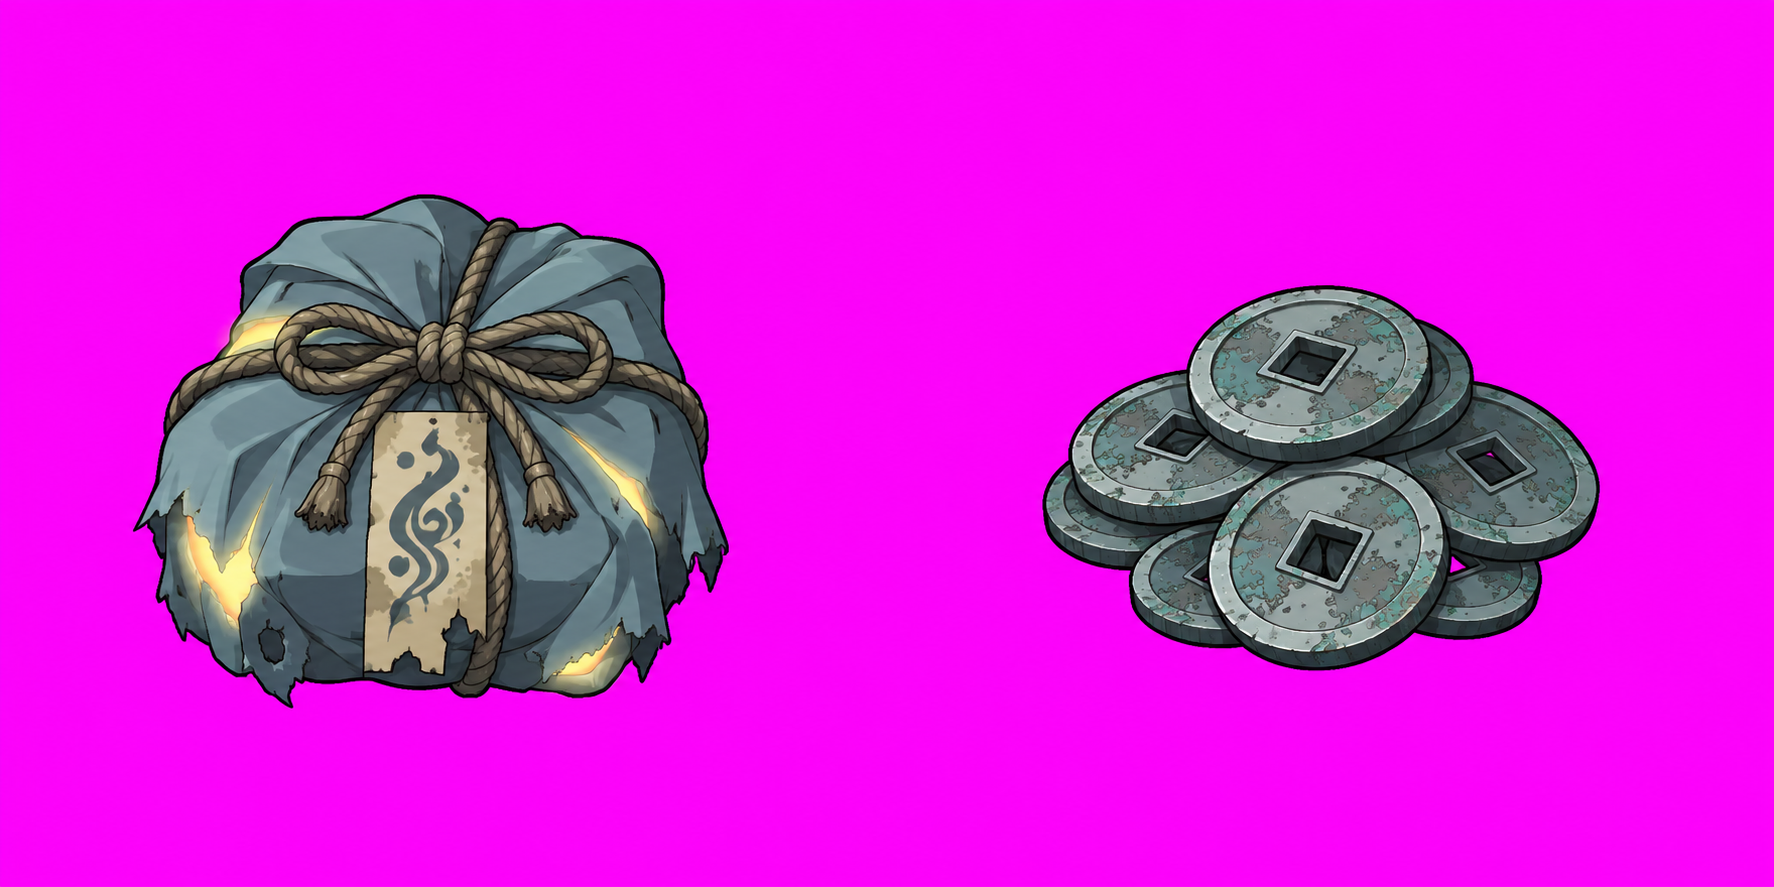
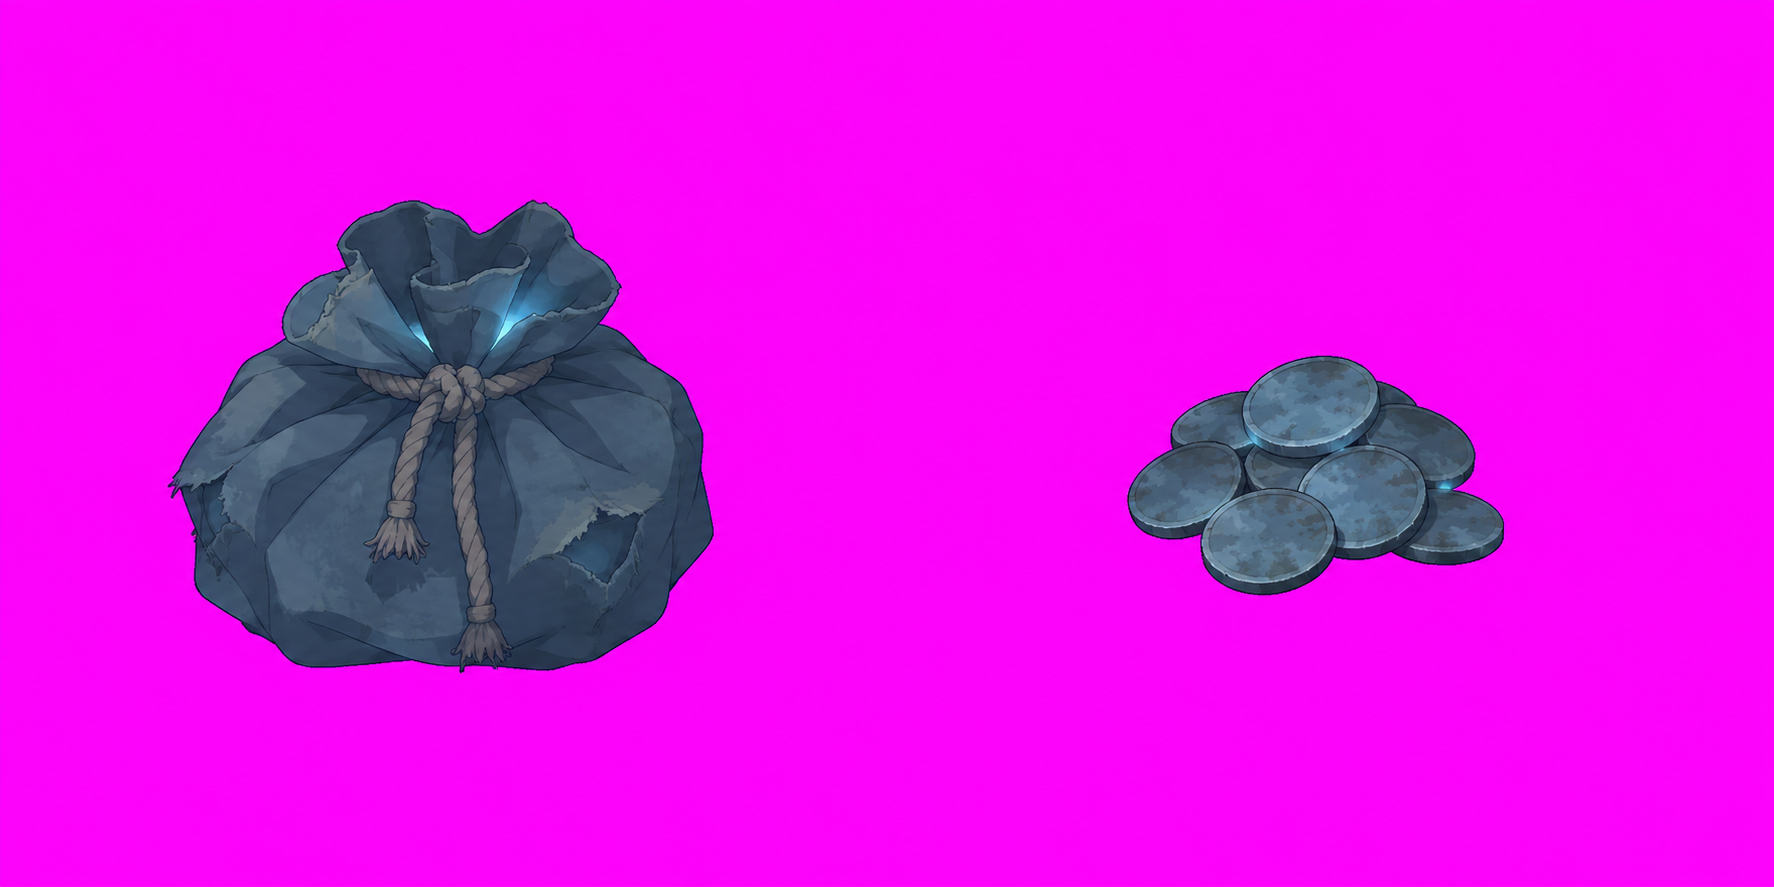
맵 오브젝트를 바닥에 맞춰 전부 다시 제작, 특정 나라의 요소 제외
- 엄폐 오브젝트 21종, 상호작용 오브젝트 9종, 벽 장식 9종, 바닥 장식 9종을 모두 다시 생성
- 오브젝트 시트를 만들 때 바닥 질감을 기준 그림으로 함께 넘겨 그림체와 색을 바닥에 맞춘다
  (채도 낮은 청회색, 바닥보다 조금만 밝게, 밝은 색은 불빛에만)
- 자르는 단계에서 오브젝트의 색을 바닥 색조 쪽으로 조금 더 모은다 (settings.csv 의 scenery.grade, gradeSat)
- 확인용 그림(art/scenery/preview.png)을 실제 바닥 위에 늘어놓아 어울리는지 볼 수 있게 했다
- 글로벌 서비스이므로 한 나라에 고유한 물건을 뺐다: 장독 → 나무통, 포장마차 → 가판대, 평상 → 벤치,
  쌀자루 → 마대, 석상 → 소화전, 부적 벽보 → 찢어진 포스터, 보따리 → 더플백. 로비 배경도 다시 만들었다
- 기획서 v0.15: 0절(글로벌 서비스), 11.1절(맵 그림)

Changed region(s): [[0.062, 0.2131, 0.434, 0.7914], [0.5891, 0.3044, 0.8991, 0.761]]

diff --git a/tools/art/lib/pixels.ts b/tools/art/lib/pixels.ts
@@ -622,3 +622,47 @@ export function padBox(box: Box, pad: number, w: number, h: number): Box {
   const y = Math.max(0, box.y - pad);
   return { x, y, w: Math.min(w, box.x + box.w + pad) - x, h: Math.min(h, box.y + box.h + pad) - y };
 }
+
+// ---- 색 맞추기 ---------------------------------------------------------------
+
+/** 불투명한 픽셀의 평균색 */
+export function meanColor(img: Img, threshold = 128): Rgb {
+  const d = img.data;
+  let r = 0;
+  let g = 0;
+  let b = 0;
+  let n = 0;
+  for (let i = 0; i < d.length; i += 4) {
+    if (d[i + 3] < threshold) continue;
+    r += d[i];
+    g += d[i + 1];
+    b += d[i + 2];
+    n++;
+  }
+  return n ? [Math.round(r / n), Math.round(g / n), Math.round(b / n)] : [0, 0, 0];
+}
+
+/**
+ * 그림의 색을 한 방향으로 모은다: 채도를 sat 배로 낮추고, 기준색(tint)의 색조 쪽으로 amount 만큼 물들인다.
+ * 따로 그린 오브젝트들을 같은 장면(예: 맵 바닥)의 색으로 맞추는 데 쓴다.
+ * 밝게 빛나는 부분(밝기가 protect 이상)은 그대로 둬서 불빛이 죽지 않게 한다.
+ */
+export function grade(img: Img, tint: Rgb, amount: number, sat = 1, protect = 0.82): void {
+  const max = Math.max(tint[0], tint[1], tint[2], 1);
+  const k = [tint[0] / max, tint[1] / max, tint[2] / max];
+  const d = img.data;
+  for (let i = 0; i < d.length; i += 4) {
+    if (d[i + 3] === 0) continue;
+    const lum = 0.299 * d[i] + 0.587 * d[i + 1] + 0.114 * d[i + 2];
+    // 밝은 불빛일수록 덜 건드린다
+    let t = (lum / 255 - (protect - 0.18)) / 0.18;
+    t = t <= 0 ? 0 : t >= 1 ? 1 : t * t * (3 - 2 * t);
+    const w = 1 - t;
+    for (let c = 0; c < 3; c++) {
+      const v = d[i + c];
+      const flat = lum + (v - lum) * sat;
+      const out = flat * (1 - amount + amount * k[c]);
+      d[i + c] = Math.max(0, Math.min(255, Math.round(v + (out - v) * w)));
+    }
+  }
+}

diff --git a/docs/프로토타입_기획서.md b/docs/프로토타입_기획서.md
@@ -2,7 +2,7 @@
 
 | 항목 | 내용 |
 | --- | --- |
-| 문서 버전 | v0.14 (초안) — UI 규칙(무채색 + 라임 강조)과 조작 버튼 개편 (0절, 4.1절), 발사체가 무기에서 나가게, 대기 동작 96장 (11.1절) |
+| 문서 버전 | v0.15 (초안) — 맵 오브젝트를 바닥에 맞춰 전부 다시 제작, 특정 나라의 요소 제외 (0절, 11.1절) |
 | 작성일 | 2026-11-18 |
 | 대상 | 웹 프로토타입 (스마트폰 가로 화면) |
 | 근거 자료 | 전달받은 기획 슬라이드 13장 + 구두 설명 + 질의 응답 |
@@ -36,6 +36,7 @@
 | 스프라이트 방향 | 앞쪽 사선 한 방향만 만들고 좌우 반전해 쓴다. 뒤쪽 방향 그림은 만들지 않는다 (11.1절) |
 | 귀중품과 가방 | 던전에서 주운 귀중품을 4칸짜리 가방에 담아, 살아서 나가는 순간 던전 밖 재화(은화)로 바꾼다. 주울 때 위험을 지고 더 좋은 것을 노리는 선택이 있다 (7.12절) |
 | 시즌 테마 | 그믐밤의 구도심. 달 없는 밤의 오래된 도심 골목 (괴담 분위기) |
+| 글로벌 서비스 | 그림과 설정에 특정 나라 고유의 요소를 넣지 않는다. 구도심은 어느 나라에나 있을 법한 현대 도시의 뒷골목으로 그린다 (11.1절) |
 | 맵 그림 | 바닥·지붕·벽 질감, 엄폐 오브젝트, 상호작용 오브젝트, 벽·바닥 장식을 모두 이미지 생성으로 만든다. 맵의 지형과 배치 규칙은 그대로다 (11.1절) |
 | 스프라이트 동작 | 대기 / 이동 / 기본 공격 / 액티브 / 궁극기 / 회피 / 피격 7종. 기절·쓰러짐·교체 등장은 만들지 않고 코드 연출(흔들림, 기울며 사라짐, 커졌다 돌아옴)로 표현한다 |
 | 신규 캐릭터 6명의 외형 | 능력치 표의 색·무기에 맞춰 정한 추천안으로 제작 (11.1절) |
@@ -945,7 +946,7 @@ NPC에게 다가가면 선택지가 있는 이벤트가 열린다 (전투 일시
 | 펫 | 펫 4종. 편성 화면과 펫 버튼, 전투 화면의 펫에 같은 그림을 쓴다 | Codex 이미지 생성 (시트에서 잘라 씀) |
 | 조작 버튼 아이콘 | 기본 공격, 회피, 액티브, 궁극기 | 위와 같음. 테두리와 음영이 없는 흰색 단색 기호 |
 | 그 밖의 아이콘 | 상호작용, 장비 부위 3종, 괴담 조각 | 위와 같음. 흰 바탕에 금색 테두리의 단순한 기호 |
-| 로비 배경 | 구도심 골목의 밤 풍경 | Codex 이미지 생성 |
+| 로비 배경 | 구도심 골목의 밤 풍경 (어느 나라에나 있을 법한 현대 도시) | Codex 이미지 생성 |
 
 - 패널과 버튼은 그림을 쓰지 않고 스타일로 꾸민다. 색과 모양은 4.1절의 UI 규칙을 따른다.
 - 그림이 없으면 예전의 도형 아이콘이 나온다. 무엇을 그릴지는 `data/art/ui_sheets.csv` 와 `data/art/ui.csv` 에 적는다.
@@ -957,13 +958,15 @@ NPC에게 다가가면 선택지가 있는 이벤트가 열린다 (전투 일시
 | 종류 | 내용 | 만드는 방식 |
 | --- | --- | --- |
 | 바닥 | 낡은 아스팔트 골목 바닥 | 질감 한 장을 이어 붙여도 경계가 보이지 않게 가공해 맵 전체에 반복해 깐다 |
-| 지붕 · 벽 | 건물의 윗면과 앞면 | 이어 붙는 질감. 벽 앞면에는 창문·문·셔터·간판·부적 같은 장식을 칸마다 정해진 규칙으로 붙인다 |
-| 엄폐 오브젝트 | 나무 상자, 장독, 드럼통, 자판기, 전봇대, 화단, 평상, 포장마차, 방수포 더미, 승용차, 트럭 등 21종 | 여러 물체를 한 장에 격자로 그려 받아 물체별로 잘라 쓴다 |
+| 지붕 · 벽 | 건물의 윗면과 앞면 | 이어 붙는 질감. 벽 앞면에는 창문·문·셔터·간판·벽보 같은 장식을 칸마다 정해진 규칙으로 붙인다 |
+| 엄폐 오브젝트 | 나무 상자, 나무통, 드럼통, 쓰레기통, 자판기, 전봇대, 가로등, 소화전, 화단, 벤치, 가판대, 방수포 더미, 승용차, 트럭 등 21종 | 여러 물체를 한 장에 격자로 그려 받아 물체별로 잘라 쓴다 |
 | 상호작용 오브젝트 | 보상 상자, 보급 상자, 구급 상자, 괴담의 잔재, 봉인 상자, NPC, 출구 | 위와 같음 |
 | 바닥 장식 | 맨홀, 배수구, 물웅덩이, 균열, 횡단보도, 신문지, 낙엽 등 9종 | 위와 같음. 칸 좌표로 자리가 정해져 같은 맵은 늘 같은 모습이다 |
 
 - 엄폐 오브젝트는 종류와 차지하는 칸 수(가로×세로)가 규칙 쪽 배치와 맞아야 한다. 그림이 없는 종류는 도형으로 그려진다.
-- 불이 켜진 창문·자판기·가로등·포장마차 주변에는 빛이 번지게 해 밤 분위기를 낸다.
+- 불이 켜진 창문·자판기·가로등·가판대 주변에는 빛이 번지게 해 밤 분위기를 낸다.
+- **바닥에 맞춘다**: 오브젝트 시트를 생성할 때 바닥 질감을 기준 그림으로 함께 넘겨, 그림체(부드러운 채색, 가는 남색 외곽선)와 색(달 없는 밤의 채도 낮은 청회색)을 바닥에 맞춘다. 오브젝트는 바닥보다 조금만 밝게 그려 윤곽은 읽히되 튀지 않게 하고, 밝은 색은 불빛에만 쓴다. 상호작용 오브젝트는 그보다 조금 더 밝게 그리고 은은한 빛을 둔다. 확인용 그림(`art/scenery/preview.png`)도 실제 바닥 위에 늘어놓아 어울리는지 본다.
+- **특정 나라의 요소를 넣지 않는다**: 글로벌 서비스이므로 장독·포장마차·평상·부적·석상처럼 한 나라에 고유한 물건은 쓰지 않고, 어느 도시에나 있을 물건으로 그린다. 배경 설정 문구(`scenery.theme`)에도 이 조건을 적어 둔다.
 - 무엇을 그릴지는 `data/art/scenery_sheets.csv`(시트)와 `data/art/scenery.csv`(시트 안의 물체, 게임에서의 크기)에 적는다. 다른 테마의 맵을 만들 때는 이 표와 배경 설정 문구만 바꾼다.
 
 #### 이펙트 그림
